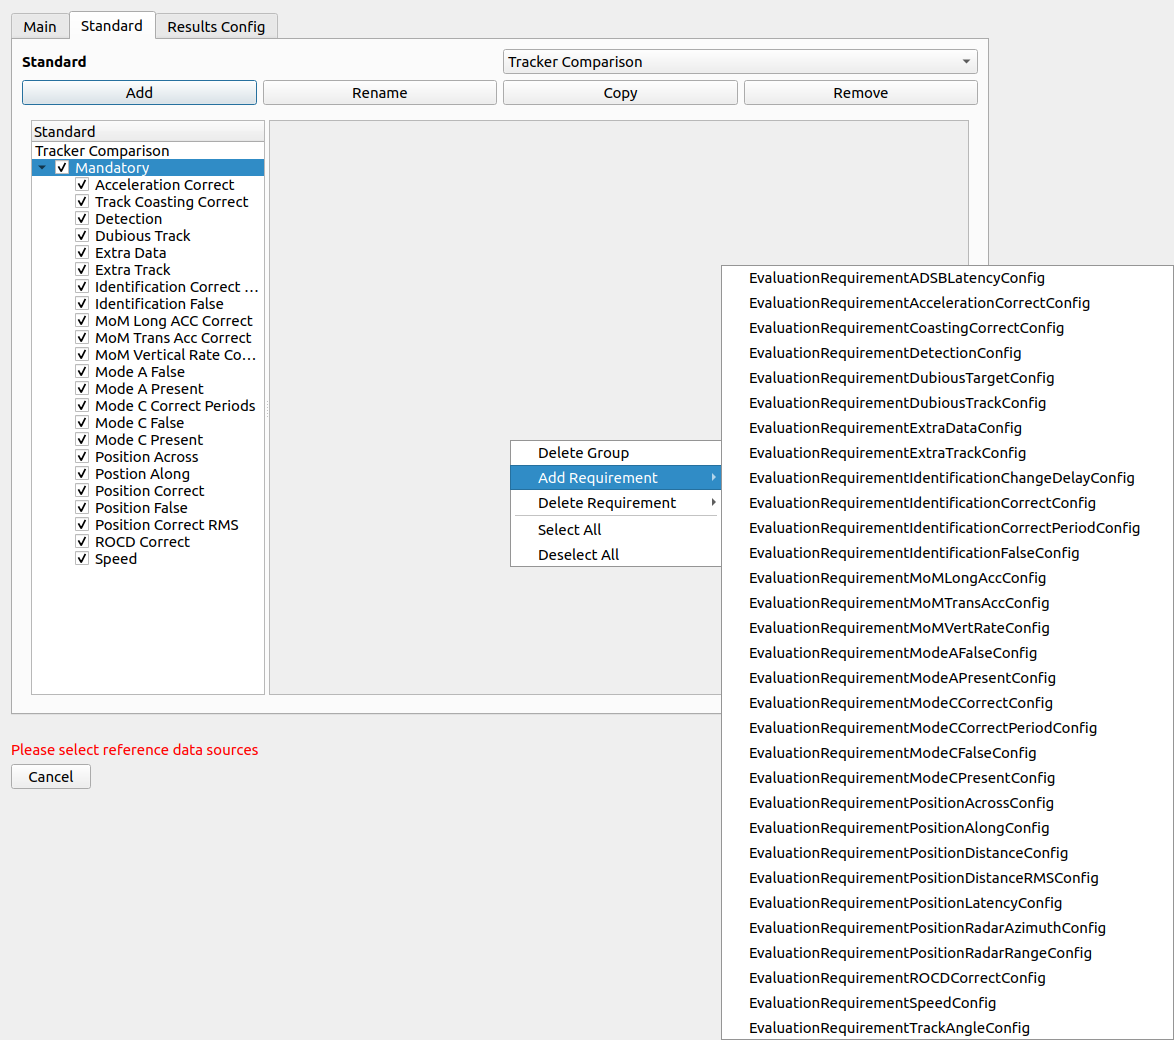
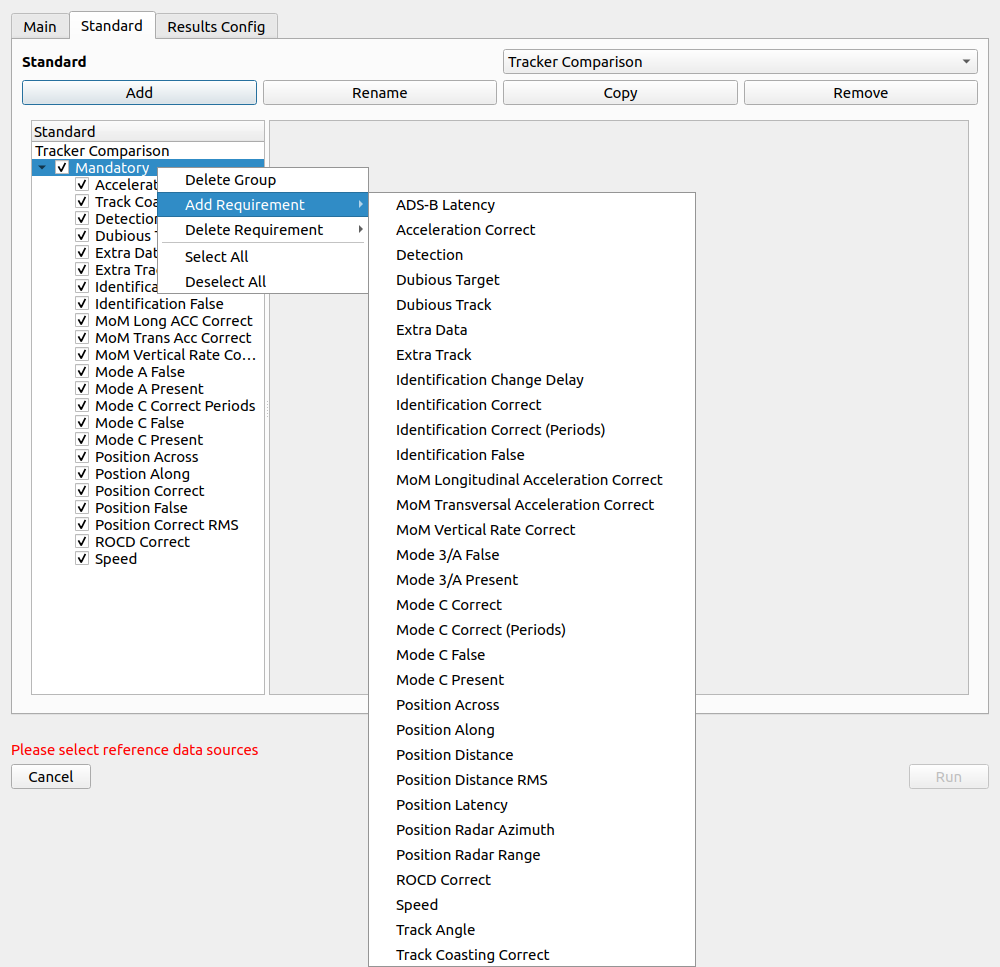
Evaluation standard: readable requirement names in Add Requirement menu, menus at the clicked item
- Add Requirement lists the requirement names in alphabetical order instead of the config class names
- Standard and group menus open at the clicked tree item instead of the mouse cursor
- 'TrackAngle' shown as 'Track Angle'
- User manual: Add Requirement and Results Overview screenshots taken again (Result column shown)

diff --git a/src/eval/standard/evaluationstandardwidget.cpp b/src/eval/standard/evaluationstandardwidget.cpp
@@ -123,12 +123,15 @@ void EvaluationStandardWidget::showContextMenu(const QPoint& pos)
     EvaluationStandardTreeItem* item = static_cast<EvaluationStandardTreeItem*>(index.internalPointer());
     traced_assert(item);
 
+    //at the clicked item, not at the mouse cursor (e.g. a context menu opened with the keyboard)
+    const QPoint global_pos = tree_view_->viewport()->mapToGlobal(pos);
+
     if (dynamic_cast<EvaluationStandard*>(item))
     {
         loginf << "got standard";
 
         //EvaluationStandard* std = dynamic_cast<EvaluationStandard*>(item);
-        showMenu();
+        showMenu(global_pos);
 
     }
     else if (dynamic_cast<Group*>(item))
@@ -137,7 +140,7 @@ void EvaluationStandardWidget::showContextMenu(const QPoint& pos)
 
         Group* group = dynamic_cast<Group*>(item);
         traced_assert(group);
-        showGroupMenu(*group);
+        showGroupMenu(*group, global_pos);
     }
 }
 
@@ -349,12 +352,12 @@ void EvaluationStandardWidget::showRequirementWidget(QWidget* widget)
     requirements_widget_->setCurrentWidget(widget);
 }
 
-void EvaluationStandardWidget::showMenu ()
+void EvaluationStandardWidget::showMenu (const QPoint& global_pos)
 {
-    menu_.exec(QCursor::pos());
+    menu_.exec(global_pos);
 }
 
-void EvaluationStandardWidget::showGroupMenu (Group& group)
+void EvaluationStandardWidget::showGroupMenu (Group& group, const QPoint& global_pos)
 {
     QMenu menu;
 
@@ -366,10 +369,15 @@ void EvaluationStandardWidget::showGroupMenu (Group& group)
         // requirements
         QMenu* req_menu = menu.addMenu("Add Requirement");
 
+        //readable names in alphabetical order, the action adds the requirement of the class
+        std::map<std::string, std::string> class_by_name;
         for (auto& req_it : Group::requirement_type_mapping_)
+            class_by_name[ req_it.second ] = req_it.first;
+
+        for (auto& name_it : class_by_name)
         {
-            std::string class_name = req_it.first;
-            QAction* action = req_menu->addAction(class_name.c_str());
+            std::string class_name = name_it.second;
+            QAction* action = req_menu->addAction(name_it.first.c_str());
             connect(action, &QAction::triggered, [this,&group,class_name]() {this->addRequirementSlot(group, class_name);});
         }
 
@@ -401,7 +409,7 @@ void EvaluationStandardWidget::showGroupMenu (Group& group)
         }
     }
 
-    menu.exec(QCursor::pos());
+    menu.exec(global_pos);
 }
 
 

diff --git a/src/eval/requirement/group.cpp b/src/eval/requirement/group.cpp
@@ -79,7 +79,7 @@ const std::map<std::string, std::string> Group::requirement_type_mapping_
     {"EvaluationRequirementPositionLatencyConfig", "Position Latency"},
     {"EvaluationRequirementADSBLatencyConfig", "ADS-B Latency"},
     {"EvaluationRequirementSpeedConfig", "Speed"},
-    {"EvaluationRequirementTrackAngleConfig", "TrackAngle"},
+    {"EvaluationRequirementTrackAngleConfig", "Track Angle"},
     {"EvaluationRequirementMoMLongAccConfig", "MoM Longitudinal Acceleration Correct"},
     {"EvaluationRequirementMoMTransAccConfig", "MoM Transversal Acceleration Correct"},
     {"EvaluationRequirementMoMVertRateConfig", "MoM Vertical Rate Correct"},

diff --git a/src/eval/standard/evaluationstandardwidget.h b/src/eval/standard/evaluationstandardwidget.h
@@ -68,8 +68,8 @@ public:
 
     void showRequirementWidget(QWidget* widget); // can be nullptr
 
-    void showMenu ();
-    void showGroupMenu (Group& group);
+    void showMenu (const QPoint& global_pos);
+    void showGroupMenu (Group& group, const QPoint& global_pos);
 
 protected:
     void showContextMenu(const QPoint& pos);
